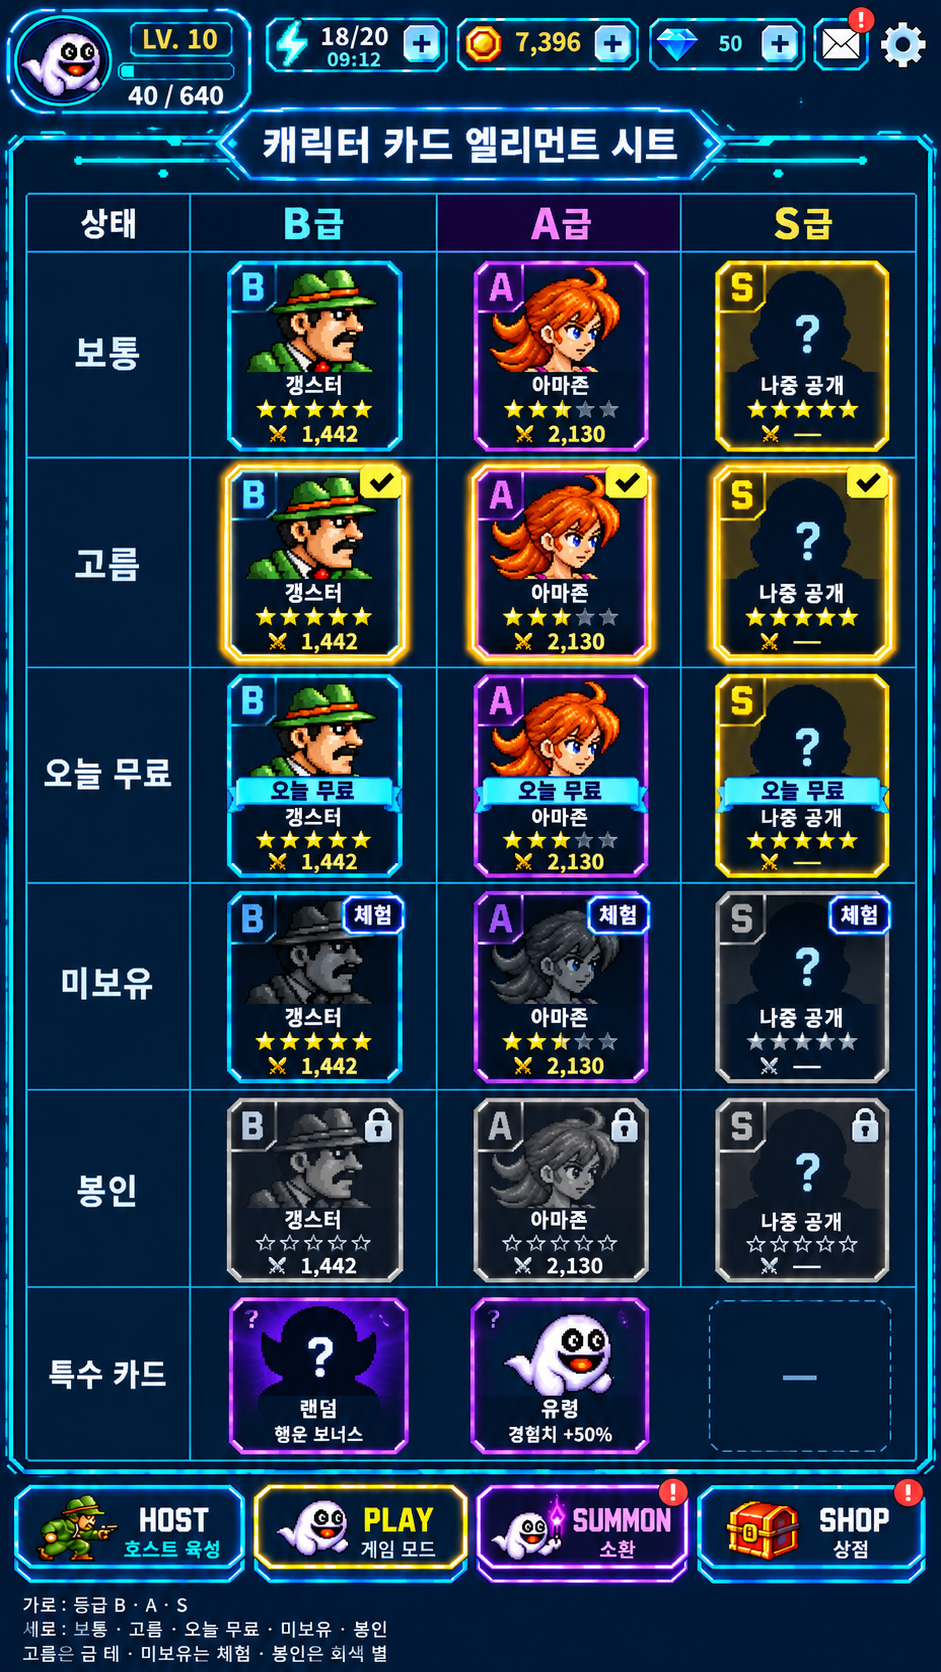
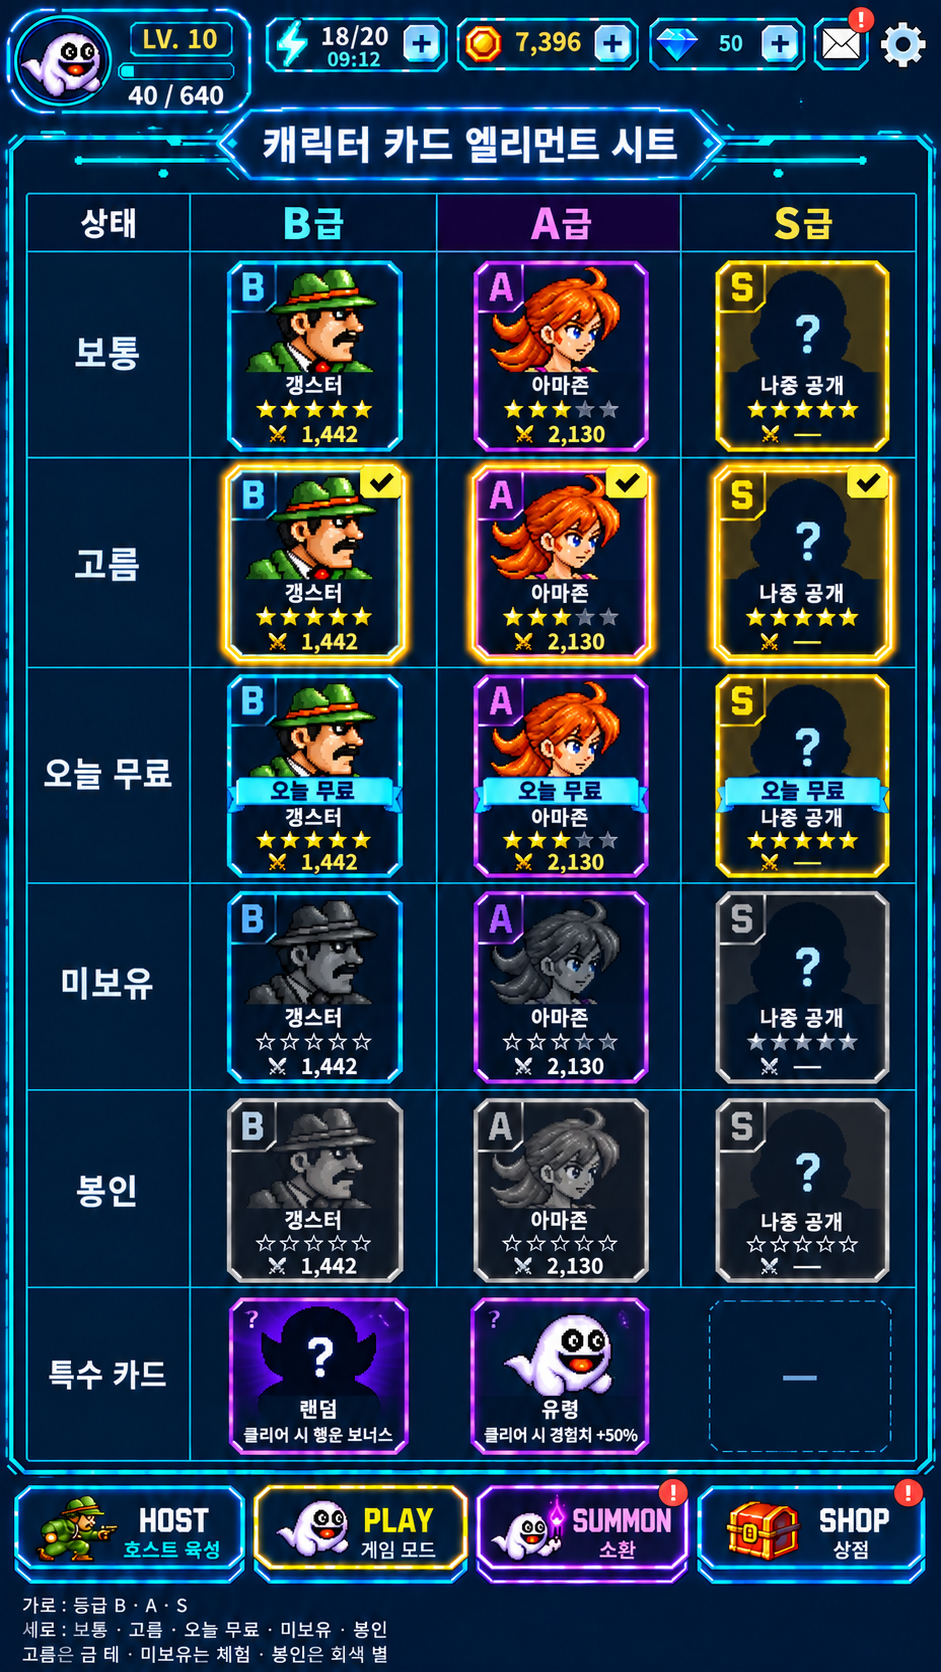
로비 출전 S22 자유안 확정 — 세 상태(몸 골라 · ? 랜덤 · 유령) · 호스트 줄 딤 · 클리어 시 조건 (PD 2026-10-15)
PD 「S22 자유안 · 랜덤/유령일 때 아래 처리 · 랜덤 보너스는 클리어 시 · 미보유 체험 표시는 빼기」
- S22a 몸 골라 · S22b ? 랜덤 · S22c 유령 — 랜덤 · 유령이면 호스트 줄 딤 60% + 가운데 안내 한 줄 · 설명 칸이 그 출전 설명으로
- 랜덤 「클리어 시 조각 +3 · 골드 +20%」 · 유령 「클리어 시 유령 경험치 +50%」 · 「미보유 체험」 글 삭제(규칙은 그대로)
- 카드 시트 · 버튼 시트 고침(체험 꼬리표 · 봉인 자물쇠 삭제 · 클리어 시 글) · 문서 0.7

diff --git a/Projects/AVSR/AVSR_Content_Store.md b/Projects/AVSR/AVSR_Content_Store.md
@@ -1,7 +1,7 @@
 # 콘텐츠 세부 기획서 + 개발 스펙 — 로비 상점 · 시즌 패스 · 조각 뽑기 · 미션 · 결제
 
 - **콘텐츠명**: 로비 상점 — 판매 넷(**시즌 패스 · 재화 · 상자 · 조각 뽑기**) · 매일/매주 미션 · 월정액(계약) · 프로필 꾸미기 · 결제 · **카테고리**: 아웃게임 수익 · **우선순위**: P0
-- **Version**: `0.6` · **Last Updated**: `2026-10-15` · **Status**: PD 답 반영(0-2) — 조각 뽑기는 **하단 바 「소환」으로 상점과 분리**(A안) · 상자를 보상에서 뺄지만 검토 중(0-3)
+- **Version**: `0.7` · **Last Updated**: `2026-10-15` · **Status**: PD 답 반영(0-2) — 조각 뽑기는 **하단 바 「소환」으로 상점과 분리**(A안) · 상자를 보상에서 뺄지만 검토 중(0-3)
 - 관련: [`AVSR_Content_Economy.md`](AVSR_Content_Economy.md)(재화 · 오늘의 상점 · 정수 — 구현됨) · [`AVSR_Balance10.md`](AVSR_Balance10.md) · `Assets/Scripts/Module/CLAUDE.md` 6절(상자) · 7절(오늘의 상점)
 - **장면 기획**(화면 19장면 · 판매 구성표): [`_exchange/store_scenes.md`](_exchange/store_scenes.md) · **소환 연출 박자표**: [`_exchange/guide_summon_fx.md`](_exchange/guide_summon_fx.md) — 장면 시안 `_exchange/in/scene_s01~s18_*.png`
 - 데이터: [`Store/`](Store/) — `price_tiers.tsv` · `store_products.tsv` · `cards.tsv` · `pass_s1.tsv` · `missions.tsv` · `gacha.tsv` · `profile.tsv`
@@ -592,10 +592,13 @@ public interface IStaminaService {
 | 시작 | 내는 것 | 이득 | 고르는 이유 |
 |---|---|---|---|
 | **몸 골라 시작** | 행동력 5 + 골드 출전비(그 몸 · 챕터 값, 지금 `EntryPriceOf`) — **몸마다 하루 첫 출전은 골드 무료** | 원하는 몸 · 원하는 상성으로 확실하게 | 키운 몸의 값어치. 여러 몸을 돌려 쓰면 매일 무료라 20마리를 모을 이유 |
-| **? 랜덤 시작** | 행동력 5 | **행운 보너스** — 나온 몸으로 깨면 그 몸 조각 +3 · 판 골드 +20%. **아직 없는 몸도 나온다(체험)** — 숙련도 0 이면 스킬 봉인 그대로 | 공짜 + 덤 · 안 써 본 몸 체험 → 「소환에서 뽑자」 |
+| **? 랜덤 시작** | 행동력 5 | **행운 보너스 — 클리어 시** 나온 몸의 조각 +3 · 판 골드 +20%. 아직 없는 몸도 나온다(숙련도 0 이면 스킬 봉인 그대로) — **화면에 「체험」이라고 내세우지 않는다**(PD 2026-10-15 「알아서 체험하는 것」) | 공짜 + 덤 · 안 써 본 몸을 자연스럽게 써 본다 |
 | **유령 시작** | 행동력 5 | 깨면 유령 경험치 +50% | 몸을 빼앗아 가며 싸우는 본연의 맛 · 도전 |
 
 - 판 안에서 빼앗은 몸도 **내가 키운 만큼 세다**(지금 규칙) — 랜덤 · 유령 설명 칸에 한 줄로 알린다(`ui.start.note.grown`).
+- **화면(시안 S22 · PD 고름)**: 로비에 「출전 방식」 칸 — 몸 골라 · ? 랜덤 · 유령 큰 카드 셋. 그 아래 호스트 선택 줄 · 설명 칸 · 시작 버튼.
+  - **몸 골라**: 호스트 줄이 살아 있고 고른 몸이 설명 칸에 나온다.
+  - **? 랜덤 · 유령**: 호스트 줄은 **어둡게 덮고(딤 60%) 가운데 안내 한 줄** — 「랜덤 출전 — 몸은 판이 시작될 때 정해져요」 / 「유령 출전 — 판 안에서 몸을 빼앗아 싸워요」. 누르면 아무 일도 없다(몸 골라로 바꾸려면 위 카드). 설명 칸은 그 출전 방식 설명으로 바뀐다.
 - `GameConfig` 「출전」: `_firstDeployFree` true · `_randomLuckShards` 3 · `_randomLuckGoldPct` 20 · `_randomIncludesUnowned` true · `_ghostStartExpPct` 50.
 - 저장: `deployDay` · `deployedToday[]`(오늘 골드 무료를 쓴 몸 키) — 하루 경계 = 하루 초기화.
 - 판 결과에 행운 보너스 · 유령 보너스를 한 줄로(「행운 보너스 — 아마존 조각 +3 · 골드 +20%」).
@@ -603,7 +606,7 @@ public interface IStaminaService {
 **캐릭터 카드(엘리먼트) — 등급 · 성급을 보인다**(PD 2026-10-15 「캐릭터들도 등급 · 성급이 필요」)
 - 육성 결정(2026-09-21)의 「B/A/S 등급은 내부값으로만」을 바꾼다 — 카드 구석에 **등급 배지**(B 하늘 · A 보라 · S 금) · 테두리 색도 등급을 따른다. 확률 공개(소환)와도 맞물린다.
 - **성급** = 별 다섯 칸, 숙련도 2단계에 별 하나(반 칸 표시). 0 이면 「봉인」 회색.
-- 상태 표시: 고름(금 테) · **오늘 첫 출전 무료** 띠 · 미보유(실루엣 — 랜덤 체험으로만) · 「?」 랜덤 카드 · 유령 카드(몸 없음)도 같은 틀.
+- 상태 표시: 고름(금 테) · **오늘 첫 출전 무료** 띠 · 미보유(잠긴 실루엣 — 고를 수 없다) · **봉인**(숙련도 0 — 회색 별만, 자물쇠 없음: 출전은 된다) · 「?」 랜덤 카드 · 유령 카드(몸 없음)도 같은 틀.
 - 카드 안 숫자는 **전투력**(지금 그대로), 출전비는 카드가 아니라 시작 버튼에 보인다.
 
 **시작 버튼**(`ChapterHostPanel` 「도전하기」) — 고른 것에 따라 글이 바뀐다
@@ -612,8 +615,8 @@ public interface IStaminaService {
 |---|---|
 | 몸(오늘 처음) | 「⚡5 · 오늘 무료 · 도전하기」 |
 | 몸(오늘 두 번째부터) | 「⚡5 + 🪙132 · 도전하기」 |
-| ? 랜덤 | 「⚡5 · 행운 보너스 · 도전하기」(작게 「조각 +3 · 골드 +20%」) |
-| 유령 | 「⚡5 · 유령 경험치 +50% · 도전하기」 |
+| ? 랜덤 | 「⚡5 · 행운 보너스 · 도전하기」(작게 「클리어 시 조각 +3 · 골드 +20%」) |
+| 유령 | 「⚡5 · 유령 출전 · 도전하기」(작게 「클리어 시 유령 경험치 +50%」) |
 | 행동력 모자람 | 버튼은 그대로, 누르면 `StaminaShortPopup` |
 
 **화면**
@@ -649,6 +652,7 @@ public interface IStaminaService {
 |---|---|---|
 | 0.1 | 2026-10-15 | 최초 작성 — 참고 게임 정리 · 상점 · 패스 · 미션 · 계약 · 결제 스펙 · 데이터 초안 5종 |
 | 0.2 | 2026-10-15 | PD 답 반영 — 광고 제외 · 값 1차 확정(한국 기준) · 한국 00:00 초기화(칸) · 큰 계약 편의 교체 · 외형 설계 · 젬 순서 칸 · 상자 검토(0-3) · 시안 4컷 발주 |
+| 0.7 | 2026-10-15 | PD 「S22 자유안 · 랜덤/유령일 때 아래 처리 · 랜덤 보너스는 클리어 시 · 미보유 체험 표시는 빼기」 — 호스트 줄 딤 + 안내 · 클리어 시 조건 · 「체험」 표시 삭제 · 봉인 카드 자물쇠 삭제 |
 | 0.6 | 2026-10-15 | PD 「골드 출전은 필요 — 내가 키운 몸을 쓰는 값 · ? · 유령은 무료」 → 출전 방식 셋(몸 · 랜덤 행운 보너스 · 유령 경험치) · 몸마다 하루 첫 출전 무료 · 랜덤 체험 · 카드에 등급 · 성급 · 시작 버튼 글 규칙 |
 | 0.5 | 2026-10-15 | PD 「궁수의 전설처럼 입장마다 스태미나 · 상단 바 · 판매」 — 행동력(B-12, 입장 5 · 최대 20 · 12분 1 · 클리어 +5 · 젬 100 = 20 하루 6회) · 상품 `stamina_refill` · 계약(작은 매일 +20 · 큰 최대 +20 · 매일 +40) · 입문 · 패스 · 미션 보상에 행동력 · 미션 보상 칸을 보상 문자열로 |
 | 0.4 | 2026-10-15 | PD 「가챠랑 일반 구매랑 구분돼야」 → A안: 하단 바 HOST · PLAY · SUMMON · SHOP · 소환 전용 `SummonPanel` · 상점 탭 셋(오늘 · 상자 · 재화) |

diff --git a/Projects/AVSR/_exchange/store_scenes.md b/Projects/AVSR/_exchange/store_scenes.md
@@ -53,6 +53,9 @@
 | S23 | 로비 — 같은 내용(가이드안: ? 랜덤을 고른 상태) | 〃 |
 | S24 | 캐릭터 카드(엘리먼트) 시트 — 등급 × 상태 | `HostCard` 반복 |
 | S25 | 시작 버튼 상태 시트 | `CHStartButton` |
+| S22a | S22 확정본 — 몸 골라 고른 상태 | 〃 |
+| S22b | S22 — ? 랜덤 고른 상태(호스트 줄 딤 + 안내) | 〃 |
+| S22c | S22 — 유령 고른 상태(호스트 줄 딤 + 안내) | 〃 |
 
 ---
 
@@ -125,8 +128,8 @@
 - 로비 위 팝업: 「행동력이 부족해요」 · 「필요 5 · 보유 3 · 다음 회복 08:12」 · 큰 버튼 「젬 100 으로 ⚡20 채우기 · 오늘 5/6」 · 작게 「계약을 사면 매일 행동력 +20」 안내 줄 · 「닫기」.
 
 ### 출전 방식 (S22~S25 공통 — 정답은 `AVSR_Content_Store.md` B-12 「출전 방식」)
-- 세 가지 시작: **몸 골라**(행동력 5 + 골드 출전비, 몸마다 하루 첫 출전은 골드 무료) · **? 랜덤**(행동력 5 · 행운 보너스 조각 +3 · 골드 +20% · 아직 없는 몸도 나옴 = 체험) · **유령**(행동력 5 · 유령 경험치 +50%).
-- 카드: 등급 배지(B 하늘 · A 보라 · S 금) + 등급 색 테두리 · 성급 별 다섯 칸(반 칸) · 전투력 숫자 · 상태(고름 금 테 · 「오늘 무료」 띠 · 미보유 실루엣 · 봉인 회색 별).
+- 세 가지 시작: **몸 골라**(행동력 5 + 골드 출전비, 몸마다 하루 첫 출전은 골드 무료) · **? 랜덤**(행동력 5 · **클리어 시** 행운 보너스 조각 +3 · 골드 +20%) · **유령**(행동력 5 · **클리어 시** 유령 경험치 +50%). ⚠ 「미보유 체험」 같은 글은 화면에 쓰지 않는다(PD).
+- 카드: 등급 배지(B 하늘 · A 보라 · S 금) + 등급 색 테두리 · 성급 별 다섯 칸(반 칸) · 전투력 숫자 · 상태(고름 금 테 · 「오늘 무료」 띠 · 미보유 = 잠긴 실루엣 · 봉인 = 회색 별만, **자물쇠 없음** · 「체험」 꼬리표 없음).
 - 지금 로비(바탕): Projects/AVSR/_exchange/ref/store_mock/base_lobby_now.png 의 오른쪽 두 화면(게임 캡처) — 챕터 카드 · 보스 · 클리어 보상 · 호스트 선택 줄([? 랜덤] [유령] [갱스터] [폭력배] [좀비] [아마존] …) · 설명 칸 · 도전하기 · 하단 바.
 
 ### S22 로비 자유안
@@ -142,3 +145,9 @@
 
 ### S25 시작 버튼 상태 시트
 - 버튼 다섯 줄: 몸(오늘 무료) · 몸(🪙132) · ? 랜덤(행운 보너스) · 유령(경험치 +50%) · 행동력 모자람(⚡ 빨간 숫자 「3/5」). 버튼 모양은 지금 노란 「도전하기」 결을 살린다.
+
+### S22a · S22b · S22c — S22 자유안 확정(PD 고름) 세 상태
+- 바탕 = `in/scene_s22_lobbyFree.png` 배치 그대로. 출전 방식 카드 글: 몸 골라 「⚡5 · 오늘 첫 출전 무료」(그 몸이 오늘 처음일 때) / ? 랜덤 「⚡5 · 클리어 시 조각 +3 · 골드 +20%」 / 유령 「⚡5 · 클리어 시 유령 경험치 +50%」. 「미보유 몸 체험」 글은 지운다.
+- **S22a 몸 골라**: 지금 S22 그대로(아마존 고름 · 버튼 「⚡5 · 오늘 무료 · 도전하기」).
+- **S22b ? 랜덤**: 위 「? 랜덤」 카드가 금 테로 골라짐. **호스트 선택 줄 전체를 어둡게 덮고(60%) 가운데에 안내 한 줄 「랜덤 출전 — 몸은 판이 시작될 때 정해져요」** — 카드 얼굴은 흐리게 비친다. 설명 칸: 「? 랜덤 출전 — 클리어하면 나온 몸의 조각 +3 · 판 골드 +20% · 빼앗은 몸은 내가 키운 만큼 강해요」. 버튼 「⚡5 · 행운 보너스 · 도전하기」(작게 「클리어 시 조각 +3 · 골드 +20%」).
+- **S22c 유령**: 「유령」 카드가 골라짐. 호스트 줄 딤 + 안내 「유령 출전 — 판 안에서 몸을 빼앗아 싸워요」. 설명 칸: 유령 그림 + 「몸 없이 시작해 적의 몸을 빼앗는다 · 클리어하면 유령 경험치 +50% · 빼앗은 몸은 내가 키운 만큼 강해요」. 버튼 「⚡5 · 유령 출전 · 도전하기」(작게 「클리어 시 유령 경험치 +50%」).
